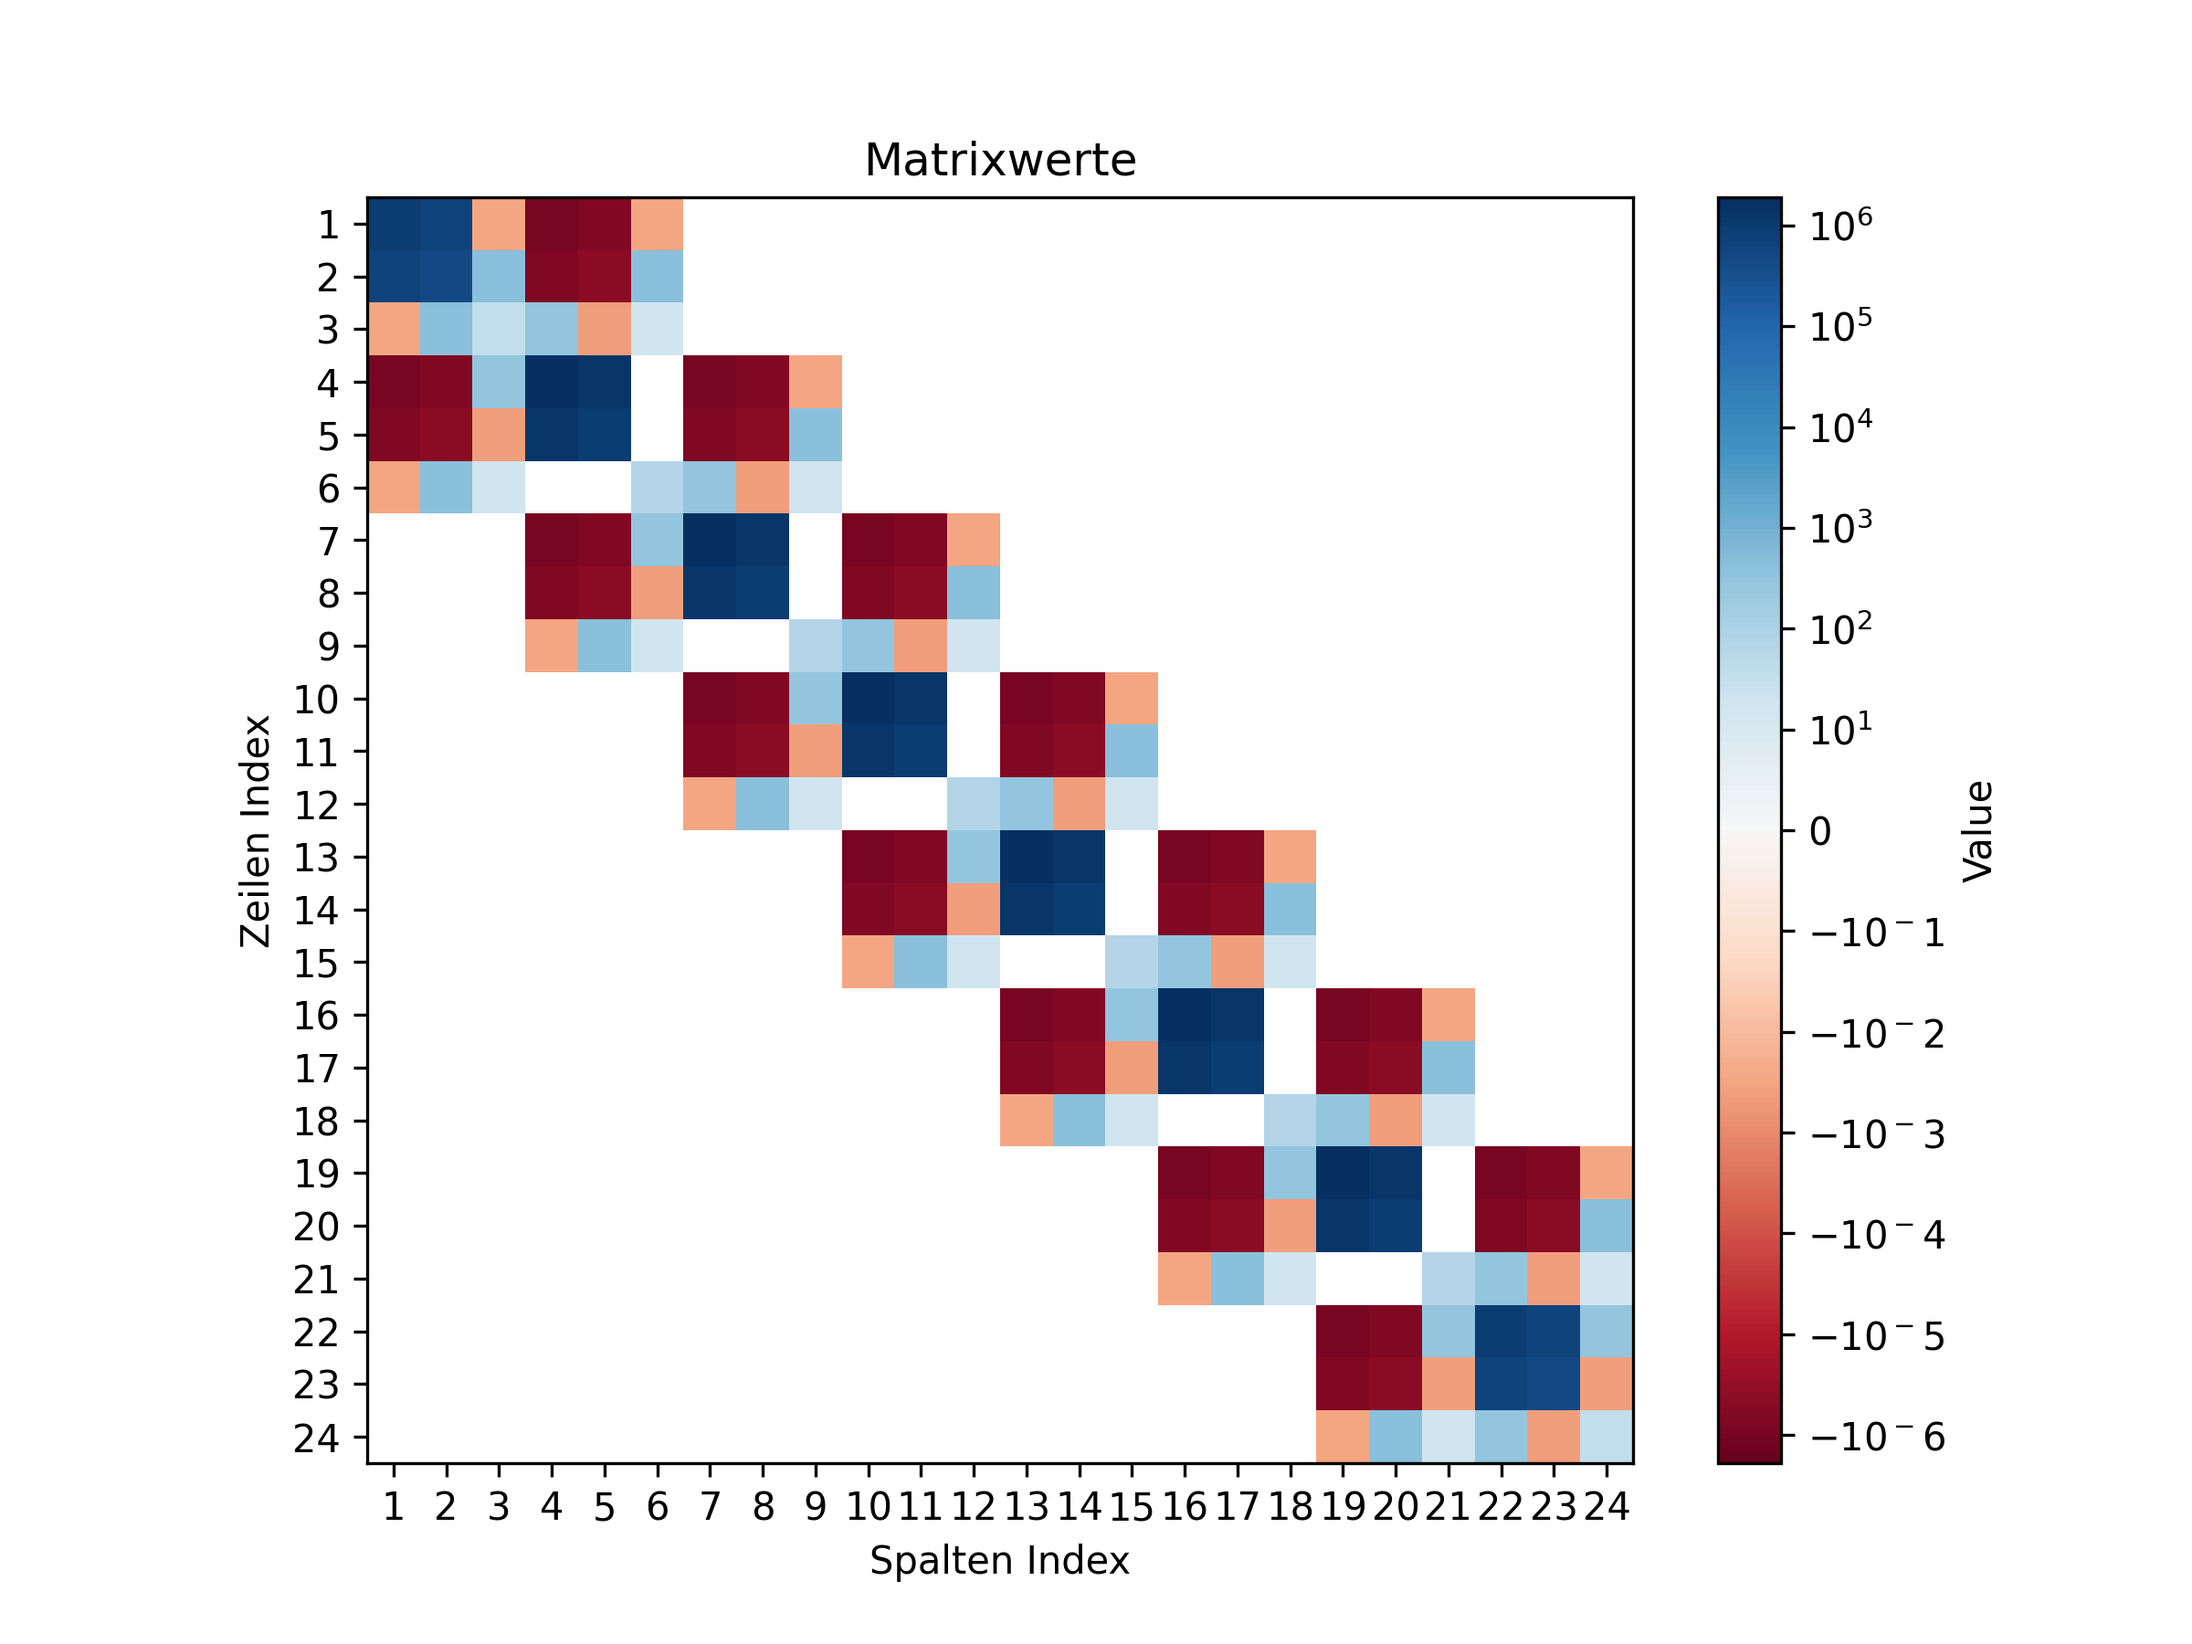
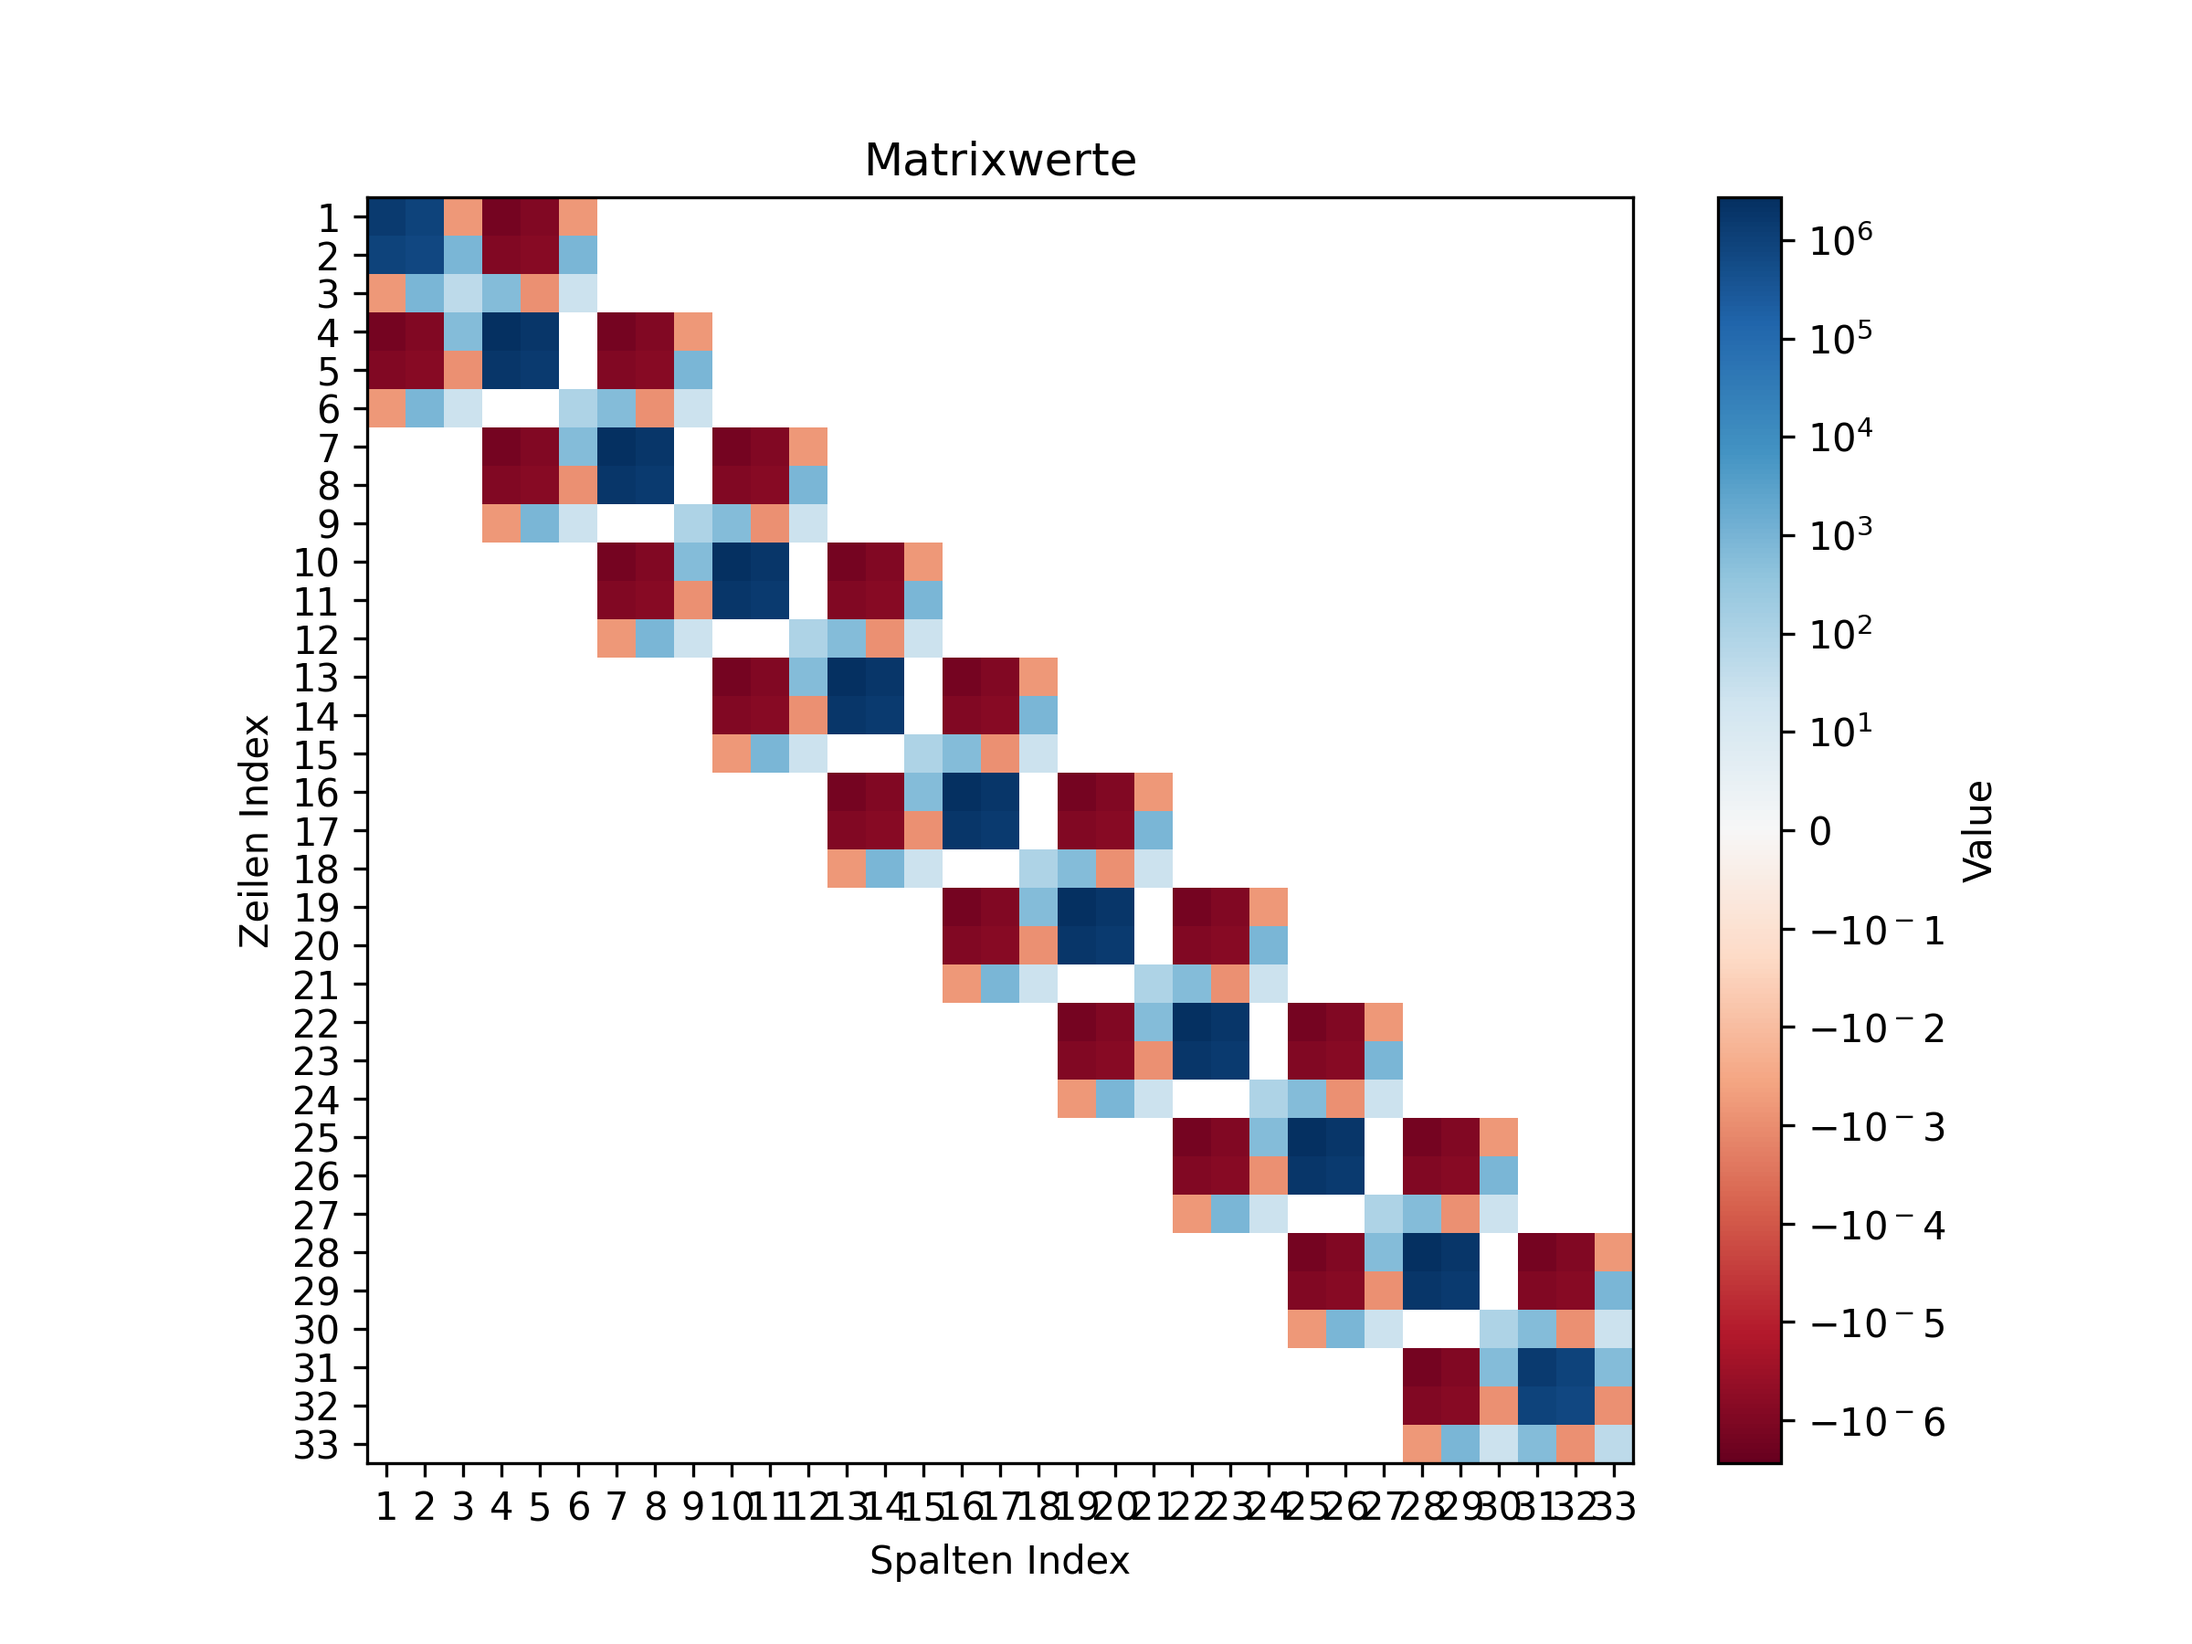
Übung 9 weiter

diff --git a/HA9/lm.py b/HA9/lm.py
@@ -1,0 +1,194 @@
+#! /usr/bin/env python3
+# -*- coding: utf-8 -*-
+
+### Vorlagendatei für die Übungen zur Computergestützten Physik ###
+
+# Bitte ergänzen Sie hier die Daten der Abgebenden. Ersetzen Sie nur
+# die Punkte ('...'), aber lassen Sie den Rest der Zeilen und ihre Reihenfolge
+# ansonsten unverändert, da Ihre Abgabe sonst nicht elektronisch verarbeitet
+# werden kann.
+#
+# 1)
+# Matrikelnummer: 458471
+# Name: Maximilian Kieser
+# Email: maximilian.l.kieser@gmail.com
+#
+# 2)
+# Matrikelnummer: 454505
+# Name: Louisa Steffens
+# Email: Louisa.sonne@web.de
+# #
+
+# Häufig benötigte Module (auskommentieren, wenn notwendig):
+import numpy as np
+import matplotlib.pyplot as plt
+import sympy as sp
+import scipy
+from scipy import constants
+import Library_simple_finite_elements as fem
+from Library_simple_finite_elements import (
+    lokale_rotationsmatrix,
+    lokale_steifheitsmatrix_unrotiert,
+    plottePositionen,
+    plotMatrix
+)
+
+#------------- 1a) --------------
+
+L = 0.7 #m
+N = 7
+N_knoten = N + 1
+l = L/N
+d = 10 # mm
+g_to_N = constants.g # Erdbeschleunigung
+m_lantern = 0.5 # kg
+phi_deg = 35 # °
+phi_rad = np.radians(phi_deg)
+E = 1800  # N/mm^2
+A = np.pi* (d/2)**2 # m^2
+I = (np.pi / 64) * d**2 * (0.001 * d)**2 # m^4
+
+x_knoten = [0]
+y_knoten =[0]
+
+for _ in range(N):
+    x_knoten.append(x_knoten[-1] + l * np.cos(phi_rad))
+    y_knoten.append(y_knoten[-1] + l * np.sin(phi_rad))
+
+for i, (x, y) in enumerate(zip(x_knoten, y_knoten), start=1):
+    print(f"Knoten {i}: ({x:.4f}, {y:.4f})")
+
+phi_elements_deg = np.full(N_knoten, phi_deg)
+
+stangen_zu_knoten = {
+    i+1: (i+1, i+2) for i in range(N)
+}
+
+
+full_x = np.zeros(3 * N_knoten)
+for i in range(N_knoten):
+    full_x[3*i]     = x_knoten[i]
+    full_x[3*i + 1] = y_knoten[i]
+    full_x[3*i + 2] = 0.0  # theta = 0, da keine Last
+
+fem.plottePositionen(full_x, stangen_zu_knoten)
+
+# ------------ b) -------------
+
+rotated_knoten = []
+for i in range(N_knoten):
+    K_local_unrotated = lokale_steifheitsmatrix_unrotiert(l, A=A, E=E, I=I)
+    K_rotated = lokale_rotationsmatrix(phi_elements_deg[i]) @ K_local_unrotated @ lokale_rotationsmatrix(phi_elements_deg[i]).T
+    rotated_knoten.append(K_rotated)
+
+DOF = 3 # Freiheitsgrad pro Knoten ix, iy, iphi
+N_DOF = DOF * N_knoten
+K_global = np.zeros((N_DOF, N_DOF))
+
+for element_id, (node1_id, node2_id) in stangen_zu_knoten.items():
+    K_e = rotated_knoten[element_id - 1]  # -1, da Liste 0-indiziert
+
+    # Globale Indizes für die Freiheitsgrade des linken Knotens
+    # GDL-Schema: [ux1, uy1, theta1, ux2, uy2, theta2, ...]
+    idx1_start = (node1_id - 1) * DOF
+    idx1_end = idx1_start + DOF
+
+    # Globale Indizes für die Freiheitsgrade des rechten Knotens
+    idx2_start = (node2_id - 1) * DOF
+    idx2_end = idx2_start + DOF
+
+    # Assemblieren der Untermatrizen
+    # K_e ist 6x6, entspricht den GDL [ux1, uy1, theta1, ux2, uy2, theta2] des Elements
+    # Die lokalen Indizes 0,1,2 entsprechen Knoten 1, 3,4,5 entsprechen Knoten 2
+
+    # Block 1,1 (Knoten 1 zu Knoten 1)
+    K_global[idx1_start: idx1_end, idx1_start: idx1_end] += K_e[0:DOF, 0:DOF]
+    # Block 1,2 (Knoten 1 zu Knoten 2)
+    K_global[idx1_start: idx1_end, idx2_start: idx2_end] += K_e[0:DOF, DOF:6]
+    # Block 2,1 (Knoten 2 zu Knoten 1)
+    K_global[idx2_start: idx2_end, idx1_start: idx1_end] += K_e[DOF:6, 0:DOF]
+    # Block 2,2 (Knoten 2 zu Knoten 2)
+    K_global[idx2_start: idx2_end, idx2_start: idx2_end] += K_e[DOF:6, DOF:6]
+
+print("\nGlobale Steifigkeitsmatrix (erste 9x9):")
+print(K_global[:9, :9])
+# Zur Kontrolle plotMatrix verwenden
+print("\nPlot der globalen Steifigkeitsmatrix:")
+plotMatrix(K_global, filename="Globale_Steifigkeitsmatrix.png")
+
+# ------------- c) ------------
+
+# Freiheitsgrade für Knoten 1 sind 0, 1, 2 (ux1, uy1, theta1).
+fixed_dofs = [0, 1, 2] # Indizes der fixierten Freiheitsgrade im globalen System
+
+# Löschung der Zeile und Spalte die zum ersten Knoten gehört: x1, y1, theta1
+K_reduced = np.delete(K_global, fixed_dofs, axis=0)
+K_reduced = np.delete(K_reduced, fixed_dofs, axis=1)
+
+print("\nReduzierte Steifigkeitsmatrix (erste 9x9):")
+print(K_reduced[:9, :9])
+
+# Definieren des reduzierten, globalen Kraftvektors
+# Die Gewichtskraft wirkt am letzten Knoten (Knoten 8, Index 7) in y-Richtung.
+# Freiheitsgrade für den letzten Knoten: ux, uy, theta
+# Index für uy des letzten Knotens im VOLLSTÄNDIGEN System: (N_knoten - 1) * DOF+ 1
+F_global = np.zeros(N_knoten * DOF)
+F_gravity = -m_lantern * g_to_N # Gewichtskraft nach unten
+last_node_uy_dof = (N_knoten - 1) * DOF + 1
+F_global[last_node_uy_dof] = F_gravity # Nur die y-Komponente am letzten Knoten
+
+# Erzeugen des reduzierten Kraftvektors
+F_reduced = np.delete(F_global, fixed_dofs, axis=0)
+
+print(f"\nKraft am letzten Knoten (Y-Richtung): {F_gravity:.4f} N")
+print(f"Reduzierter Kraftvektor (Auszug, z.B. die ersten 5 Elemente): {F_reduced[:5]}")
+
+# Berechnen der reduzierten Koordinatenänderungen
+try:
+    delta_u_reduced = np.linalg.solve(K_reduced, F_reduced)
+    print("\nReduzierter Vektor der Koordinatenänderungen (Auszug, z.B. die ersten 5 Elemente):")
+    print(delta_u_reduced[:5])
+except np.linalg.LinAlgError as e:
+    print(f"\nFehler beim Lösen des Gleichungssystems: {e}")
+    print("Möglicherweise ist die Steifigkeitsmatrix singulär oder schlecht konditioniert.")
+    exit()
+
+# Erzeugen des vollständigen Vektors der Koordinatenänderungen
+delta_u_full = np.zeros(N_knoten * DOF)
+# Füllen der Nicht-Null-Einträge
+j = 0
+for i in range(N_knoten * DOF):
+    if i not in fixed_dofs:
+        delta_u_full[i] = delta_u_reduced[j]
+        j += 1
+
+print("\nVollständiger Vektor der Koordinatenänderungen (Auszug, z.B. die ersten 10 Elemente):")
+print(delta_u_full[:10])
+
+# Berechnen des vollständigen Kraftvektors (Reaktionskräfte an den Lagern)
+F_full_recalculated = K_global @ delta_u_full
+print("\nVollständiger Kraftvektor (recalculated) (Auszug, z.B. die ersten 10 Elemente):")
+print(F_full_recalculated[:10])
+
+
+# Berechnen des vollständigen Koordinatenvektors bei Last
+# initial_full_x hat die Form [x1, y1, theta1, x2, y2, theta2, ...]
+final_full_x = full_x + delta_u_full
+
+print("\nFinaler Koordinatenvektor bei Last :")
+print(final_full_x)
+
+# -------------- d) ---------------
+
+print("\nPlot der Laternenstange unter Last:")
+plottePositionen(final_full_x, stangen_zu_knoten, allphi=phi_elements_deg, filename="Laternenstange_unter_Last.png")
+
+# -------------- e) -----------------
+#Erhöhen Sie die Anzahl der Elemente N. Wie verhält sich die Kontur des Stabs unter Las? Konvergiert sie?
+
+print("\n--- Analyse der Konvergenz (e) ---")
+print("Um die Konvergenz zu analysieren, könnten Sie das Skript mit verschiedenen Werten für 'N_elements' aufrufen (z.B. N=14, N=28 etc.).")
+print("Sie sollten beobachten, dass sich die Kontur der Stange mit zunehmender Elementanzahl glättet und einem")
+print("physikalisch 'richtigeren' Ergebnis nähert, was auf Konvergenz hindeutet.")
+print("Eine höhere Elementanzahl führt zu einer genaueren Diskretisierung der Geometrie")
+print("und der Verformung, was zu einer besseren Approximation der kontinuierlichen Lösung führt.")
